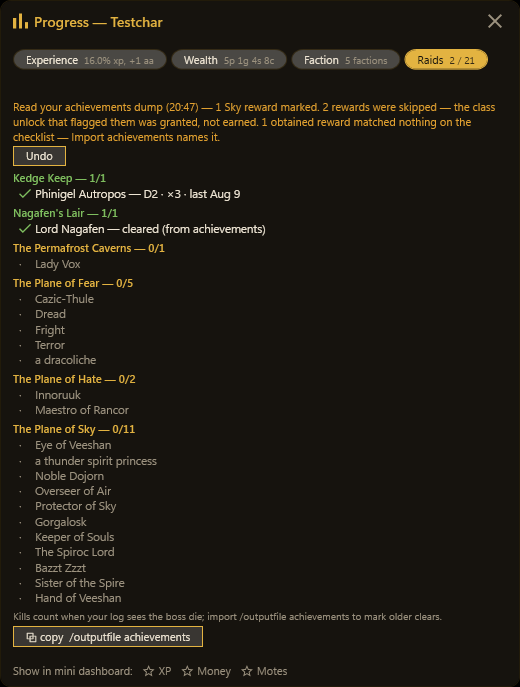
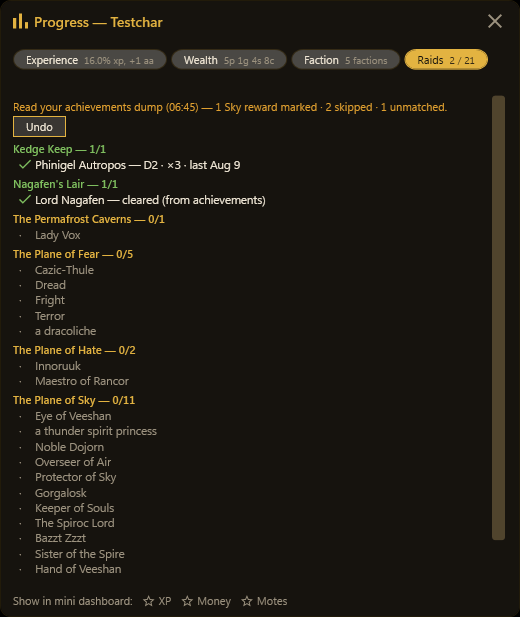
Bevel's rulings on the import report: one counted line, reasons on hover, and Sky hosts it too
Helm-signed 2026-08-23, both takeable because 1.99.6 is staged and unreleased.

GLANCE VS HOVER. The report said everything on the card and ran to three
sentences - five lines on the 338px widget. Bevel's ruling was NOT to cut a
clause, because each names a different way a correct import reads as a broken
one: the skipped clause is the #101 guard working silently, and the unmatched
clause is real progress not being recorded. So they moved rather than went.
Summary is now "Read your achievements dump (06:45) - 1 Sky reward marked - 2
skipped - 1 unmatched." and AutoImportOutcome.Detail carries the why, hung on the
line's tooltip in both UIs. Detail is null when there is nothing to explain, so a
clean run gets no filler tooltip.

TheReasonsMovedToHoverRatherThanBeingCut is the guard for the tempting version of
this change - quietly dropping a clause instead of rehoming it. No other test
would see that, because they all read the summary and the summary is supposed to
get shorter.

SKY IS A SECOND HOST. The dump feeds two consumers and the report sat on one, so
"1 Sky reward marked - 2 skipped" was being read above a list of raid bosses by a
player who may never open that surface. Bevel: "a Quest-Tracker job being read on
a raid-clear list." The Sky tab now builds the same ImportReportView - one more
host, one more line, and the rule about when an Undo is offered stays in one
place. Both UIs; IQuestsHost gains LastAchievementsImport.
[…]

Changed region(s): [[0.0, 0.154, 0.9846, 0.9854], [0.0308, 0.0, 0.9846, 0.1232]]

diff --git a/src/EQBuddy.Core/OutputfileAutoImport.cs b/src/EQBuddy.Core/OutputfileAutoImport.cs
@@ -178,11 +178,20 @@ public sealed record AutoImportOutcome(
     /// and still must not offer an Undo button.</summary>
     public int Noted => SkySkipped + SkyUnrecognized;
 
-    /// <summary>The report line. It says the dump was READ even when nothing changed,
-    /// because "EQBuddy did nothing" and "EQBuddy never saw your file" look identical to
-    /// the player and only one of them is a bug — which is exactly the confusion the
-    /// manual flow produced (David, 2026-08-20: he ran the command, the file appeared,
-    /// and the window sat there).</summary>
+    /// <summary>
+    /// **The glance line: what happened, and nothing else.** It says the dump was READ even
+    /// when nothing changed, because "EQBuddy did nothing" and "EQBuddy never saw your file"
+    /// look identical to the player and only one of them is a bug — exactly the confusion
+    /// the manual flow produced (David, 2026-08-20: he ran the command, the file appeared,
+    /// and the window sat there).
+    ///
+    /// **The counts stay here; the REASONS moved to <see cref="Detail"/>** (Bevel, Helm-signed
+    /// 2026-08-23). The first cut said all of it on the card and ran to three sentences —
+    /// five lines on the 338 px widget. Bevel's ruling was not to cut a clause, because each
+    /// one names a different way the import can look broken when it is not; it was that the
+    /// glance is *"something happened, here's Undo"* and the why is a second job behind
+    /// hover. Same shape as the 1.99.1 caption call.
+    /// </summary>
     public string Summary => Kind switch
     {
         OutputfileKind.Inventory => GearTicked switch
@@ -191,29 +200,54 @@ public sealed record AutoImportOutcome(
             1 => $"Read your inventory dump ({At:HH:mm}) — 1 item ticked.",
             _ => $"Read your inventory dump ({At:HH:mm}) — {GearTicked} items ticked.",
         },
-        OutputfileKind.Achievements => string.Join(" ", new[]
-        {
-            Applied == 0
-                ? $"Read your achievements dump ({At:HH:mm}) — nothing new to mark."
+        OutputfileKind.Achievements =>
+            (Applied == 0
+                ? $"Read your achievements dump ({At:HH:mm}) — nothing new to mark"
                 : $"Read your achievements dump ({At:HH:mm}) — " + string.Join(", ",
                     new[]
                     {
                         RaidsMarked > 0 ? $"{RaidsMarked} raid clear{(RaidsMarked == 1 ? "" : "s")}" : null,
                         SkyMarked > 0 ? $"{SkyMarked} Sky reward{(SkyMarked == 1 ? "" : "s")}" : null,
-                    }.Where(s => s is not null)) + " marked.",
-            // Said in the player's terms, not the guard's: what the game marked, why it
-            // proves nothing, and that the tracker is still the way to record it for real.
-            SkySkipped > 0
-                ? $"{SkySkipped} reward{(SkySkipped == 1 ? " was" : "s were")} skipped — the "
-                  + $"class unlock that flagged {(SkySkipped == 1 ? "it" : "them")} was "
-                  + "granted, not earned."
-                : null,
-            SkyUnrecognized > 0
-                ? $"{SkyUnrecognized} obtained reward{(SkyUnrecognized == 1 ? "" : "s")} "
-                  + "matched nothing on the checklist — Import achievements names "
-                  + $"{(SkyUnrecognized == 1 ? "it" : "them")}."
-                : null,
-        }.Where(s => s is not null)),
+                    }.Where(s => s is not null)) + " marked")
+            // Counted, not explained. A player who sees "2 skipped" and wants to know why
+            // hovers; a player who does not is left with one short line.
+            + string.Concat(new[]
+            {
+                SkySkipped > 0 ? $" · {SkySkipped} skipped" : null,
+                SkyUnrecognized > 0 ? $" · {SkyUnrecognized} unmatched" : null,
+            }.Where(s => s is not null))
+            + ".",
         _ => $"Saw {FileName} ({At:HH:mm}) — EQBuddy has no reader for that dump.",
     };
+
+    /// <summary>
+    /// **The hover half: WHY something was skipped or unmatched.** <c>null</c> when there is
+    /// nothing to explain, so a surface can hang it straight on a tooltip without inventing
+    /// filler for the ordinary case.
+    ///
+    /// Both clauses survive intact from the first cut, because both were load-bearing: each
+    /// names a different way a correct import reads as a broken one. The skipped clause is
+    /// the #101 guard working and staying silent; the unmatched clause is real progress not
+    /// being recorded, which is the one that costs the player something.
+    /// </summary>
+    public string? Detail
+    {
+        get
+        {
+            if (Kind != OutputfileKind.Achievements || Noted == 0) return null;
+            var parts = new List<string>();
+            if (SkySkipped > 0)
+                parts.Add($"{SkySkipped} reward{(SkySkipped == 1 ? " was" : "s were")} skipped: "
+                    + $"the class unlock that flagged {(SkySkipped == 1 ? "it" : "them")} was "
+                    + "granted at character creation rather than earned, so the game marks its "
+                    + "rewards obtained without the items ever existing. Turn them in for real "
+                    + "and the Sky tracker records them the normal way.");
+            if (SkyUnrecognized > 0)
+                parts.Add($"{SkyUnrecognized} obtained reward{(SkyUnrecognized == 1 ? "" : "s")} "
+                    + $"matched nothing on the checklist — usually a name that has drifted from "
+                    + $"the wiki's. Import achievements… names {(SkyUnrecognized == 1 ? "it" : "them")}, "
+                    + "so nothing is lost.");
+            return string.Join("\n\n", parts);
+        }
+    }
 }

diff --git a/tests/EQBuddy.Tests/OutputfileAutoImportTests.cs b/tests/EQBuddy.Tests/OutputfileAutoImportTests.cs
@@ -194,8 +194,11 @@ public class OutputfileAutoImportTests
             // reads "nothing new to mark" on a dump full of rewards, which is the guard
             // working and looking exactly like a broken import (#101, Frankthetankk).
             Assert.Equal(2, outcome.SkySkipped);
-            Assert.Contains("2 rewards were skipped", outcome.Summary);
-            Assert.Contains("flagged them was granted, not earned", outcome.Summary);
+            // The GLANCE counts it; the WHY is on hover (Bevel, Helm-signed 2026-08-23).
+            Assert.Contains("2 skipped", outcome.Summary);
+            Assert.DoesNotContain("granted", outcome.Summary);
+            Assert.Contains("2 rewards were skipped", outcome.Detail);
+            Assert.Contains("granted at character creation rather than earned", outcome.Detail);
         }
         finally { dir.Delete(true); }
     }
@@ -236,10 +239,45 @@ public class OutputfileAutoImportTests
             Assert.Equal(1, outcome.SkyMarked);           // Earthcaller matched
             Assert.Equal(1, outcome.SkyUnrecognized);     // the other did not
             Assert.Equal(0, outcome.SkySkipped);          // the unlock is incomplete: trusted
-            Assert.Contains("1 obtained reward matched nothing on the checklist", outcome.Summary);
-            Assert.Contains("Import achievements names it.", outcome.Summary);
+            Assert.Contains("1 unmatched", outcome.Summary);
+            Assert.Contains("1 obtained reward matched nothing on the checklist", outcome.Detail);
+            Assert.Contains("Import achievements… names it", outcome.Detail);
         }
         finally { dir.Delete(true); }
+    }
+
+    /// <summary>**Nothing was CUT when the reasons moved to hover** (Bevel, Helm-signed
+    /// 2026-08-23: *"each clause names a different false-broken-import. Do not cut one."*).
+    /// The glance carries the counts; the detail carries the explanations; a clean run has
+    /// no tooltip at all rather than a filler one.
+    ///
+    /// This is the assertion that would catch the tempting version of this change — quietly
+    /// dropping a clause instead of rehoming it, which no other test here would see, because
+    /// they all check the summary and the summary is supposed to get shorter.</summary>
+    [Fact]
+    public void TheReasonsMovedToHoverRatherThanBeingCut()
+    {
+        var noted = new AutoImportOutcome(OutputfileKind.Achievements, "d.txt",
+            new DateTime(2026, 8, 22, 20, 45, 0), 0, RaidsMarked: 0, SkyMarked: 1)
+        { SkySkipped = 2, SkyUnrecognized = 1 };
+
+        // Glance: what happened, counted, one line.
+        Assert.Equal("Read your achievements dump (20:45) — 1 Sky reward marked · 2 skipped · 1 unmatched.",
+            noted.Summary);
+        // Hover: both reasons, intact, and separated so they read as two facts.
+        Assert.Contains("granted at character creation rather than earned", noted.Detail);
+        Assert.Contains("a name that has drifted from the wiki's", noted.Detail);
+        Assert.Contains("\n\n", noted.Detail);
+
+        // A clean run has nothing to explain, so it offers no tooltip at all.
+        var clean = new AutoImportOutcome(OutputfileKind.Achievements, "d.txt",
+            new DateTime(2026, 8, 22, 20, 45, 0), 0, RaidsMarked: 2, SkyMarked: 0);
+        Assert.Equal("Read your achievements dump (20:45) — 2 raid clears marked.", clean.Summary);
+        Assert.Null(clean.Detail);
+
+        // And the inventory half never had reasons to move.
+        Assert.Null(new AutoImportOutcome(OutputfileKind.Inventory, "i.txt",
+            new DateTime(2026, 8, 22, 20, 45, 0), GearTicked: 3, RaidsMarked: 0, SkyMarked: 0).Detail);
     }
 
     /// <summary>A run that only SKIPPED still gets a report and still gets no Undo. The
@@ -273,7 +311,8 @@ public class OutputfileAutoImportTests
             Assert.Null(outcome.Undo);
             // Both halves in one line: what it did (nothing) and what it found (one skip).
             Assert.Contains("nothing new to mark", outcome.Summary);
-            Assert.Contains("1 reward was skipped", outcome.Summary);
+            Assert.Contains("1 skipped", outcome.Summary);
+            Assert.Contains("1 reward was skipped", outcome.Detail);
         }
         finally { dir.Delete(true); }
     }

diff --git a/src/EQBuddy.Avalonia/QuestsWindow.cs b/src/EQBuddy.Avalonia/QuestsWindow.cs
@@ -27,6 +27,13 @@ public interface IQuestsHost
     string QuestCharacterKey { get; }
     string CurrentZoneName { get; }
     StatsSnapshot CurrentSnapshot();
+
+    /// <summary>What the last unprompted <c>/outputfile achievements</c> import did, for the
+    /// Sky tab to report (Bevel, Helm-signed 2026-08-23). The dump feeds two consumers and
+    /// the report used to sit only on Raids — so "1 Sky reward marked · 2 skipped" was read
+    /// above a list of raid bosses by a player who may never open that surface.</summary>
+    AutoImportOutcome? LastAchievementsImport { get; }
+
     InventoryFile.Snapshot? LatestInventory(bool refresh = false);
     string? CachedItemStats(string itemName);
     Task<string?> FetchItemTooltip(string itemName);
@@ -724,8 +731,27 @@ public sealed class QuestsWindow : Window
     /// The rows are TICKABLE, and have to be: hand-ticking used to live on the widget's
     /// Epic and Sky cards, and when those became one launcher this became the only place
     /// on the desktop to say "I already have that".</summary>
+    /// <summary>The Sky tab's copy of the achievements auto-import report — the Avalonia
+    /// twin of the WPF one, same class, same rule about when an Undo is offered. See
+    /// <see cref="IQuestsHost.LastAchievementsImport"/> for why Sky is a host at all.</summary>
+    private ImportReportView SkyImport => _skyImport ??=
+        // force: true — an Undo moves checklist TICKS, and Refresh's signature is built
+        // from the same lists it just restored, so a plain repaint would decide nothing
+        // changed. A repaint that no-ops is how an Undo looks broken.
+        new ImportReportView(() => _main.LastAchievementsImport, () => Refresh(force: true));
+
+    private ImportReportView? _skyImport;
+
     private void RenderChecklist(QuestTab tab, string filter, List<string> classes)
     {
+        // ABOVE the rows and re-added on every render, because the panel is cleared
+        // wholesale — trap 44: a report about something that just happened belongs where
+        // the eye lands, not under a checklist the player has to scroll.
+        if (tab == QuestTab.Sky)
+        {
+            SkyImport.Render();
+            _questsPanel.Children.Add(SkyImport.Body);
+        }
         // Grouping, ordering and the detail line come from Core so this window, the WPF
         // one and EQBuddy Mobile cannot disagree about what a checklist row says (#184).
         var groups = tab == QuestTab.Epic

diff --git a/tests/EQBuddy.Tests/ImportReportReachesASurfaceTests.cs b/tests/EQBuddy.Tests/ImportReportReachesASurfaceTests.cs
@@ -47,6 +47,42 @@ public class ImportReportReachesASurfaceTests
             + "achievements, in BOTH its empty and its populated state — same rule."),
     ];
 
+    /// <summary>**The dump feeds TWO consumers, so the report has two homes** (Bevel,
+    /// Helm-signed 2026-08-23). Raid clears land on Raids; Sky rewards land on the Quest
+    /// Tracker's Sky tab. With the report on Raids alone, "1 Sky reward marked · 2 skipped"
+    /// was being read above a list of raid bosses — by a player who may never open that
+    /// surface at all. Bevel: *"a Quest-Tracker job being read on a raid-clear list."*
+    ///
+    /// Listed separately from <see cref="MustReachASurface"/> because it is a SECOND host
+    /// for an outcome that already has one — the scan above asks "does anything read this",
+    /// and the answer was yes while a whole audience still could not see it.</summary>
+    public static readonly (string Project, string File, string Why)[] SecondHosts =
+    [
+        ("EQBuddy", "QuestsWindow.xaml.cs",
+            "The Sky tab. Same ImportReportView, not a Sky-flavoured variant — one more "
+            + "host, one more line, and the Undo rule stays in one place."),
+        ("EQBuddy.Avalonia", "QuestsWindow.cs", "The Avalonia twin of the same tab."),
+    ];
+
+    /// <summary>Both lanes' Sky tab builds one. A ruling that shipped on one UI only is how
+    /// #122 and #152 reached Linux after Windows had already paid for them.</summary>
+    [Theory]
+    [MemberData(nameof(SecondHostRows))]
+    public void TheSkyTabReportsTheImportToo(string project, string file, string why)
+    {
+        var text = File.ReadAllText(Path.Combine(Src, project, file));
+
+        Assert.Contains("new ImportReportView(() => _main.LastAchievementsImport", text);
+        Assert.NotEmpty(why);
+    }
+
+    public static TheoryData<string, string, string> SecondHostRows()
+    {
+        var data = new TheoryData<string, string, string>();
+        foreach (var (project, file, why) in SecondHosts) data.Add(project, file, why);
+        return data;
+    }
+
     private static readonly (string Ui, string File)[] Widgets =
     [
         ("WPF", Path.Combine("EQBuddy", "MainWindow.xaml.cs")),

diff --git a/src/EQBuddy/QuestsWindow.xaml.cs b/src/EQBuddy/QuestsWindow.xaml.cs
@@ -1491,8 +1491,32 @@ public partial class QuestsWindow : Window
     /// The rows are TICKABLE, and have to be: hand-ticking used to live on the widget's
     /// Epic and Sky cards, and when those became one launcher (2026-08-16) this became
     /// the only place on the desktop to say "I already have that".</summary>
+    /// <summary>The Sky tab's copy of the achievements auto-import report (Bevel,
+    /// Helm-signed 2026-08-23). The dump feeds TWO consumers — raid clears and Sky rewards —
+    /// and until now the report sat only on Raids, so *"1 Sky reward marked · 2 skipped"* was
+    /// being read above a list of raid bosses by a player who may never open it. Bevel:
+    /// *"a Quest-Tracker job being read on a raid-clear list… not Raids-only."*
+    ///
+    /// The same class, not a Sky-flavoured variant: one more host, one more line, and the
+    /// rule about when an Undo is offered stays in exactly one place.</summary>
+    private ImportReportView SkyImport => _skyImport ??=
+        // force: true, because Refresh's signature check would see no change — an Undo
+        // moves checklist TICKS, and the signature is built from the same lists it just
+        // restored. A repaint that decides nothing changed is how an Undo looks broken.
+        new ImportReportView(() => _main.LastAchievementsImport, () => Refresh(force: true));
+
+    private ImportReportView? _skyImport;
+
     private void RenderChecklist(QuestTab tab, string filter, List<string> classes)
     {
+        // ABOVE the rows and re-added on every render, because QuestsPanel is cleared
+        // wholesale — trap 44: a report about something that just happened belongs where
+        // the eye lands, not under a checklist the player has to scroll.
+        if (tab == QuestTab.Sky)
+        {
+            SkyImport.Render();
+            QuestsPanel.Children.Add(SkyImport.Body);
+        }
         // Grouping, ordering and the detail line come from Core so this window, the
         // Avalonia one and EQBuddy Mobile cannot disagree about what a checklist row
         // says — they already had (#184).

diff --git a/src/EQBuddy.Avalonia/ImportReportView.cs b/src/EQBuddy.Avalonia/ImportReportView.cs
@@ -46,14 +46,28 @@ internal sealed class ImportReportView
 
         _panel.Children.Clear();
         _panel.IsVisible = true;
-        _panel.Children.Add(new TextBlock
+        var line = new TextBlock
         {
             Text = outcome.Summary,
             FontSize = DesignSystem.Size(Role.Caption),
             TextWrapping = TextWrapping.Wrap,
-            Foreground = AppTheme.GoodBrush,
+            // Ink by what the report SAYS: a run that skipped or could not match something
+            // is not the same good news as a clean one, and the player should be able to
+            // tell which at a glance. Same rule as the WPF twin.
+            Foreground = outcome.Noted > 0 ? AppTheme.WarnBrush : AppTheme.GoodBrush,
             Margin = new Thickness(0, DesignTokens.SpaceXs, 0, 0),
-        });
+        };
+        // The WHY, on hover (Bevel, Helm-signed 2026-08-23). The glance says what happened;
+        // a player who wants to know why something was skipped asks for it.
+        if (outcome.Detail is { Length: > 0 } detail)
+            ToolTip.SetTip(line, new TextBlock
+            {
+                Text = detail,
+                TextWrapping = TextWrapping.Wrap,
+                MaxWidth = 360,
+                Foreground = AppTheme.TextBrush,
+            });
+        _panel.Children.Add(line);
 
         // Offered only when the import actually changed something. A button that would put
         // back nothing is the same silent no-op this whole change is about.

diff --git a/src/EQBuddy/ImportReportView.cs b/src/EQBuddy/ImportReportView.cs
@@ -60,6 +60,16 @@ internal sealed class ImportReportView
         // match something is not the same good news as a clean one, and the player has to
         // be able to tell at a glance which of the two they are looking at.
         line.Ink(outcome.Noted > 0 ? "WarnBrush" : "GoodBrush");
+        // The WHY, on hover (Bevel, Helm-signed 2026-08-23). The glance says what happened;
+        // a player who wants to know why something was skipped asks for it. Wrapped, because
+        // an unwrapped two-paragraph tooltip is a line the width of the monitor.
+        if (outcome.Detail is { Length: > 0 } detail)
+            line.ToolTip = new TextBlock
+            {
+                Text = detail,
+                TextWrapping = TextWrapping.Wrap,
+                MaxWidth = 360,
+            };
         _panel.Children.Add(line);
 
         // Offered only when the import actually changed something. A button that would put

diff --git a/tests/EQBuddy.Avalonia.Tests/QuestsRenderTests.cs b/tests/EQBuddy.Avalonia.Tests/QuestsRenderTests.cs
@@ -35,6 +35,9 @@ public sealed class QuestsRenderTests : IDisposable
         public string QuestCharacterKey { get; init; } = "";
         public string CurrentZoneName { get; init; } = "";
         public StatsSnapshot CurrentSnapshot() => new();
+        /// <summary>Settable, so a test can put the Sky tab's import report on screen —
+        /// null is the ordinary case (no dump has been read this session).</summary>
+        public AutoImportOutcome? LastAchievementsImport { get; set; }
         public InventoryFile.Snapshot? LatestInventory(bool refresh = false) => null;
         public string? CachedItemStats(string itemName) => null;
         public Task<string?> FetchItemTooltip(string itemName) => Task.FromResult<string?>(null);

diff --git a/src/EQBuddy.Avalonia/MainWindow.cs b/src/EQBuddy.Avalonia/MainWindow.cs
@@ -4239,7 +4239,7 @@ public sealed class MainWindow : Window, IZoneHost, IQuestsHost, IDropsHost, IBu
     internal AutoImportOutcome? LastInventoryImport { get; private set; }
 
     /// <inheritdoc cref="LastInventoryImport"/>
-    internal AutoImportOutcome? LastAchievementsImport { get; private set; }
+    public AutoImportOutcome? LastAchievementsImport { get; private set; }
 
     /// <summary>Reads the dump the log just announced. The seam that did not exist until
     /// 2026-08-20: the finder, the auto-check and the achievements importer were all

diff --git a/CLAUDE.md b/CLAUDE.md
@@ -438,6 +438,17 @@ a guess, and the guess is discovered three commits later.
   supply.
 - **A finished piece of work with an open question in it is not finished.** Either ask, or
   state the assumption plainly at the TOP of the reply where it cannot be missed.
+- **THE TELL: if you are writing a sentence that offers him a choice, you are asking a
+  question — use the tool.** "unless you'd rather settle it now", "say the word and I'll…",
+  "or reorder it if you prefer" are all questions wearing prose. David re-stated this rule
+  unprompted on 2026-08-23 (*"if a call is needed by me on anything, please always frame it
+  to me in the question / answer way"*) — a repeat, which means the rule was never the gap.
+  The gap is that an offer buried in a summary does not FEEL like a question while you write
+  it. It is one. He answered three of them in prose that day, which works only because he
+  happened to be reading closely.
+- **"Not blocking yet" is not a reason to withhold a question**, only a reason to choose the
+  moment. If the answer is his and you already know you will need it, the tool costs him one
+  click and costs you nothing; a paragraph asking the same thing costs him a careful read.
 - This does not mean ask more often. It means the ones worth asking are unmissable, and
   everything else is a call you make yourself and report — in `DECISIONS.md`, per
   [what needs David](#what-needs-david-and-what-does-not). **Before using the question tool,
